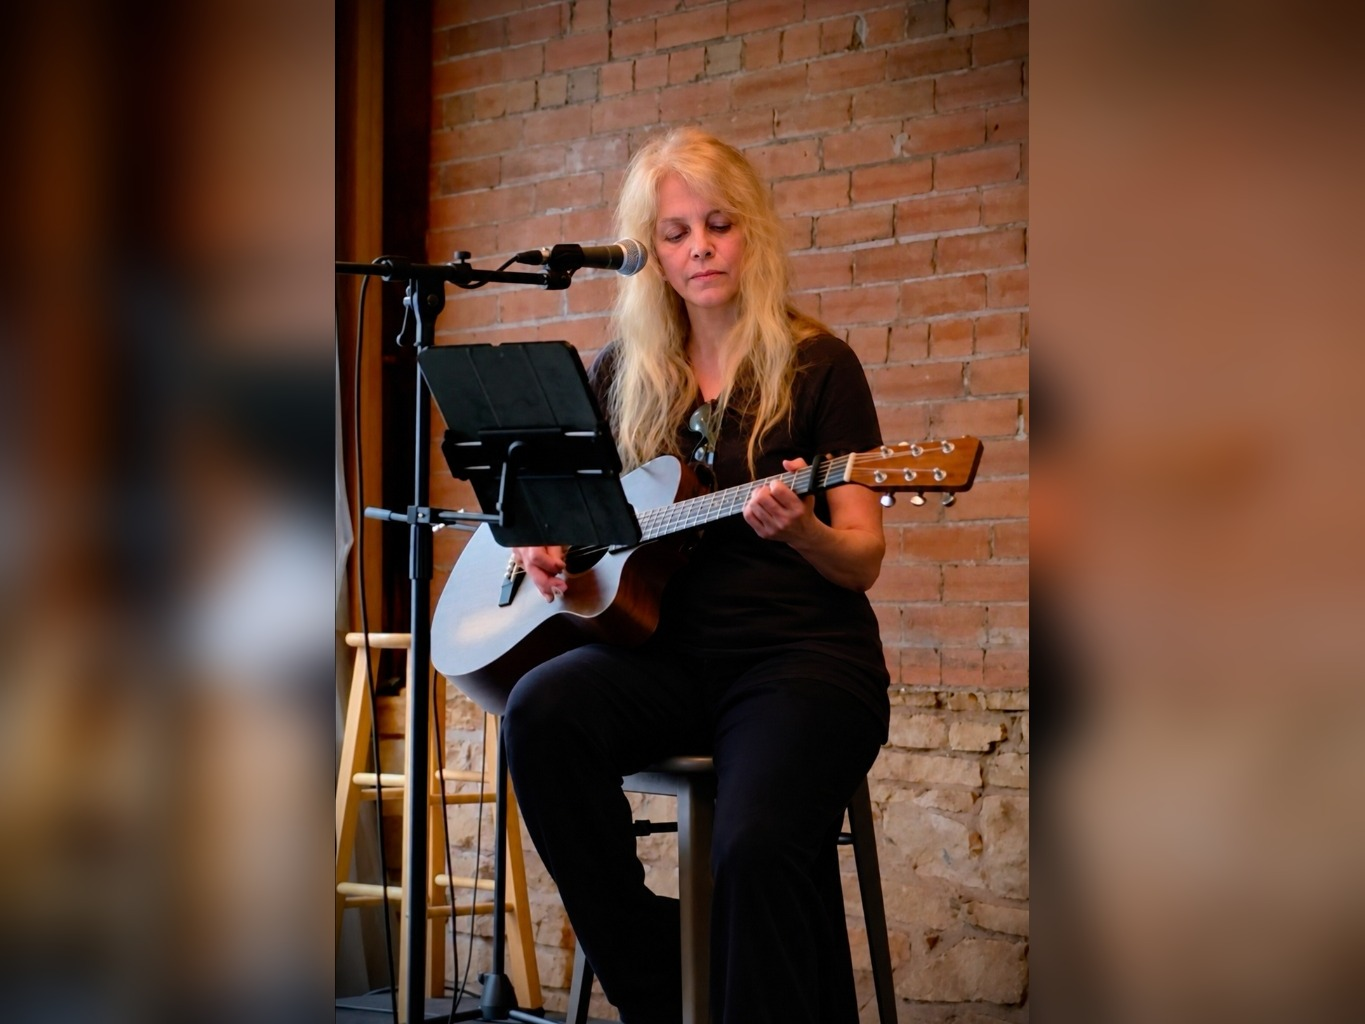
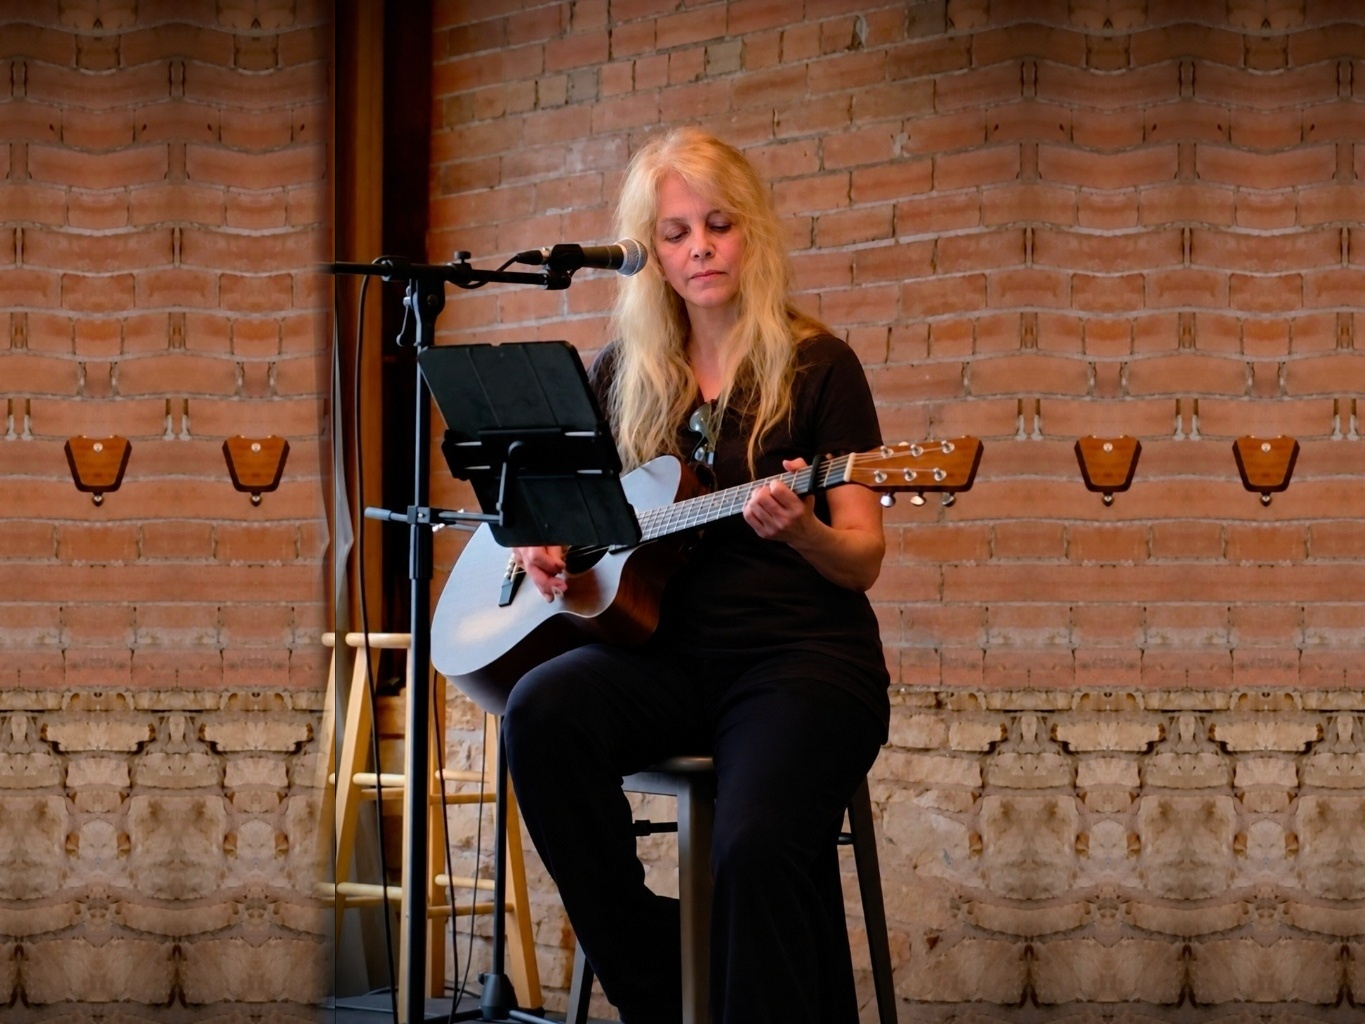
Continue crisp brick pattern without blur across Acoustic Session background

diff --git a/index.html b/index.html
@@ -33,8 +33,8 @@
   <link rel="preconnect" href="https://fonts.googleapis.com">
   <link rel="preconnect" href="https://fonts.gstatic.com" crossorigin>
   <link rel="stylesheet" href="https://fonts.googleapis.com/css2?family=Karla:wght@400;500;600;700;800&family=Plus+Jakarta+Sans:wght@600;700;800&display=swap">
-  <link rel="stylesheet" href="styles.css?v=20261108d">
-  <script defer src="site.js?v=20261108d"></script>
+  <link rel="stylesheet" href="styles.css?v=20261108e">
+  <script defer src="site.js?v=20261108e"></script>
   <script type="application/ld+json">
   {
     "@context": "https://schema.org",
@@ -999,7 +999,7 @@
             <span>Live on Stage · Guitar &amp; Vocals</span>
           </button>
           <button type="button" class="gallery-item" data-tilt data-photo="images/reb-acoustic-brick.jpg" aria-label="Enlarge photo: Acoustic Performance · In Focus">
-            <img src="images/reb-acoustic-brick-full.jpg" alt="Reb Yen playing acoustic guitar against brick backdrop" width="480" height="360" loading="lazy">
+            <img src="images/reb-acoustic-brick-full.jpg?v=20261108e" alt="Reb Yen playing acoustic guitar against brick backdrop" width="480" height="360" loading="lazy">
             <span>Acoustic Session · In Focus</span>
           </button>
           <button type="button" class="gallery-item" data-tilt data-photo="images/reb-harmonica-sunburst.jpg" aria-label="Enlarge photo: Sunburst Acoustic &amp; Harmonica">
